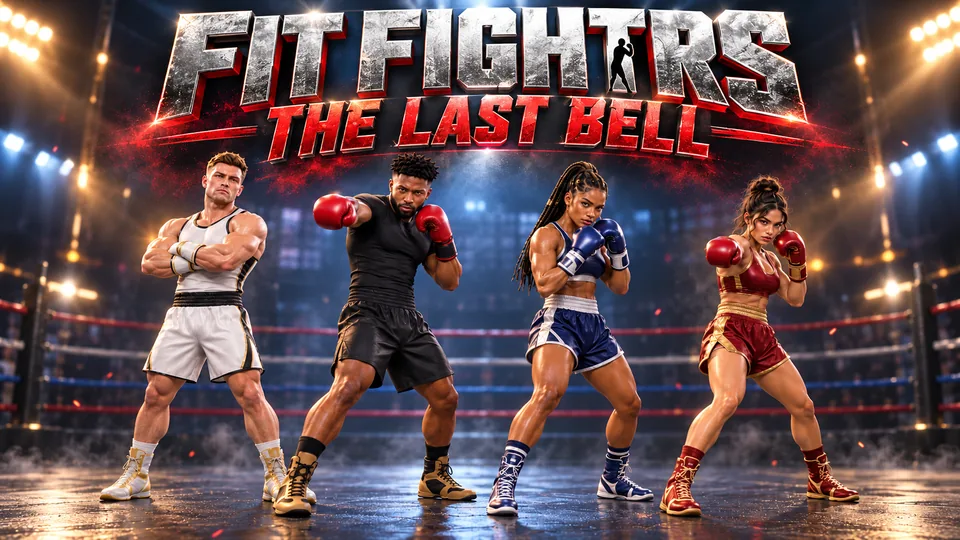
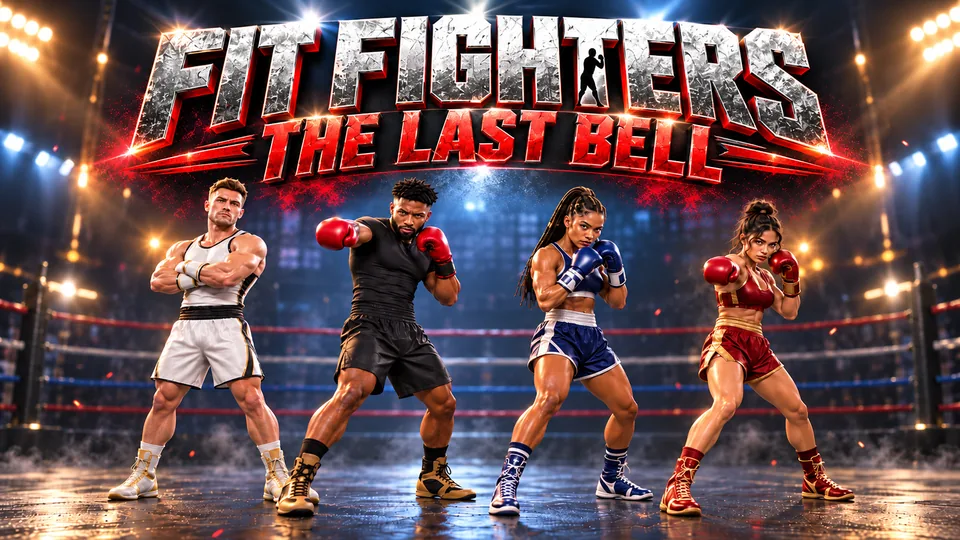
Landing page: corrected key art (FIT FIGHTERS spelled out); flash zones retuned
- New art: silhouette now stands in as the T, title reads FIT FIGHTERS
- Flash zones re-fitted to the new composition (dropped the zone by fighter 1's head, tightened
  the gaps between fighters)

Claude-Session: https://claude.ai/code/session_01HaeqQ6SoP7jb3unDUDkVbW

diff --git a/src/title.js b/src/title.js
@@ -10,11 +10,10 @@ const ART = { w: 1672, h: 941 };
 // Where flashes may pop, in % of the art: [x0, x1, y0, y1, weight]. Crowd only — side stands
 // and the gaps between fighters, clear of faces and the title.
 const ZONES = [
-  [1, 13, 30, 62, 3],    // left stands
-  [87, 99, 30, 62, 3],   // right stands
-  [46, 54, 34, 50, 1.2], // between fighters 2 and 3
-  [69, 73, 36, 54, 0.8], // between fighters 3 and 4
-  [14, 22, 32, 40, 0.6]  // behind fighter 1's shoulder
+  [1, 13, 34, 62, 3],    // left stands
+  [88, 99, 34, 62, 3],   // right stands
+  [49, 54, 36, 46, 1],   // between fighters 2 and 3
+  [68, 72, 38, 54, 0.8]  // between fighters 3 and 4
 ];
 
 export class TitleScreen {
